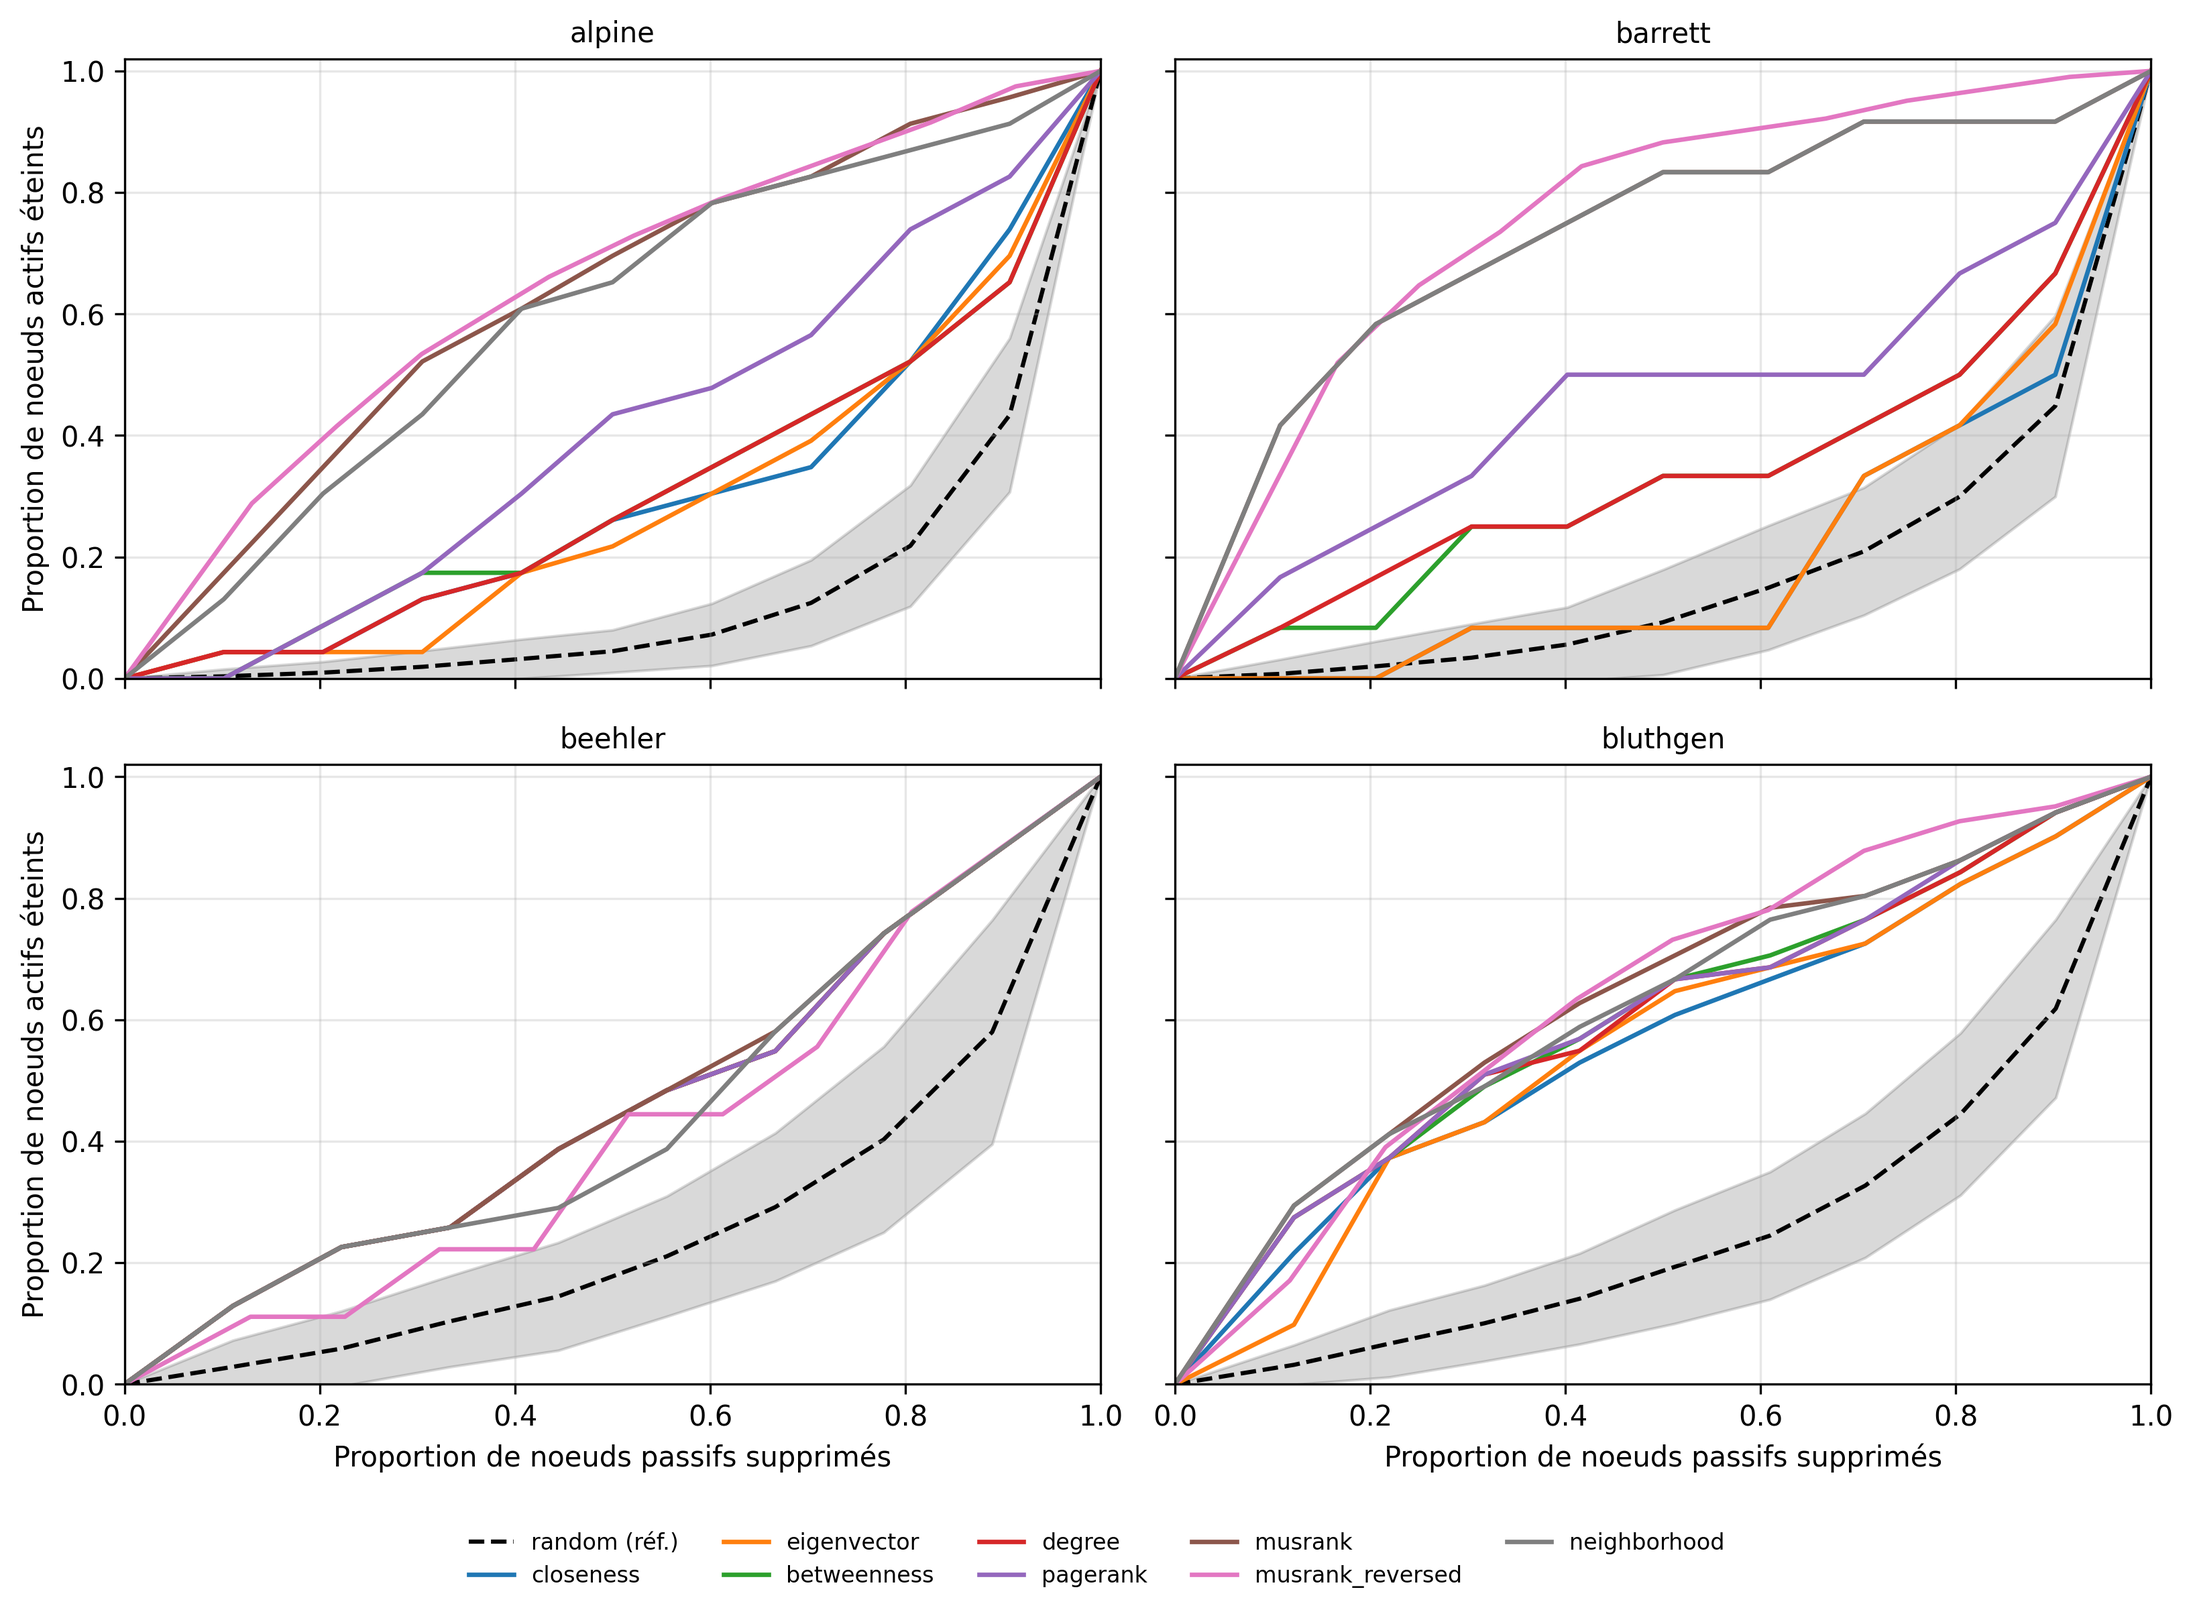
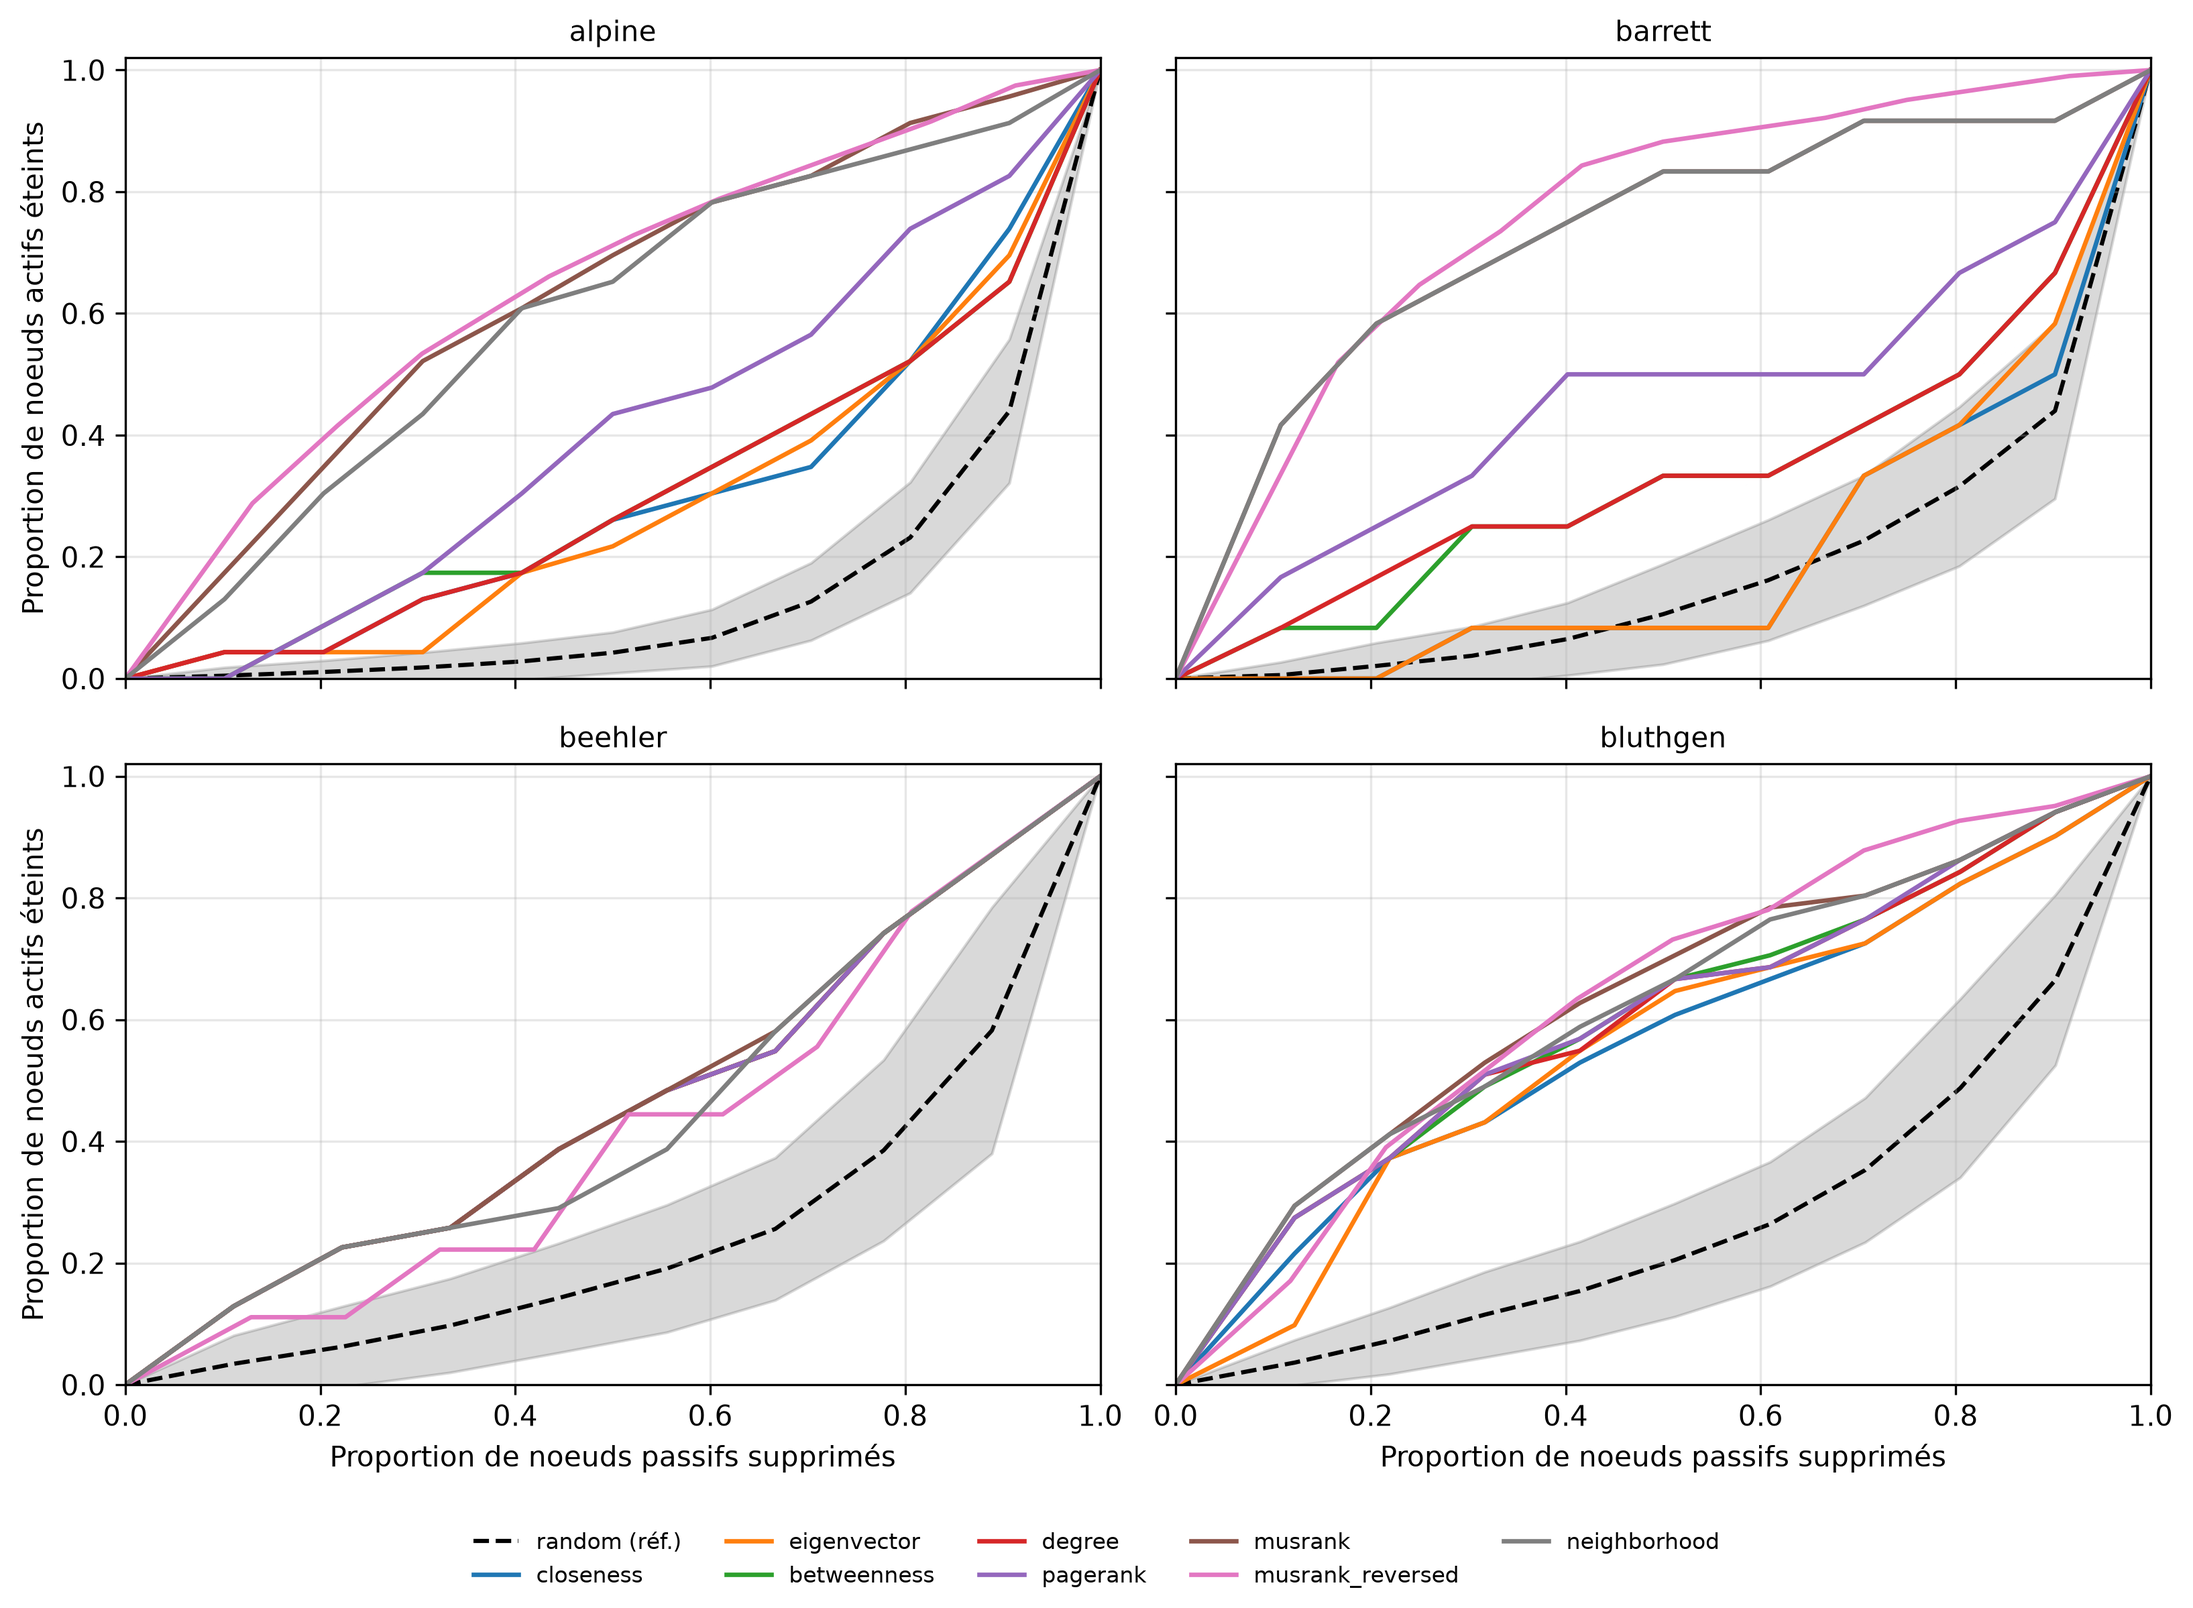
Nettoyage code

diff --git a/strategies.py b/strategies.py
@@ -6,29 +6,6 @@ from musrank_log import *
 # ------------------------------------------------------- 
 # -------------- Stratégies de suppression --------------
 
-# ------ RANDOM ------
-# def delete_random(graphe : Dict[int, List[int]], ns : int) -> Dict[int, List[int]]: 
-#     """Supprime 'ns' noeuds du graphe de manière aléatoire en renvoyant un graphe correspondant (pas de modification)"""
-#     res = copy.deepcopy(graphe)
-#     for _ in range(ns) : 
-#         rdm = random.choice(list(res.keys())) #choix du node target à supprimer du graphe
-#         voisins = res[rdm]
-#         res.pop(rdm)
-#         for node in voisins : #on supprime le noeud target des listes de ses voisins
-#             res[node].remove(rdm)
-#     return res 
-
-# def delete_random(graph : Dict[int, List[int]], ns : int) -> Dict[int, List[int]]:
-#     """Supprime 'ns' noeuds du graphe de manière aléatoire"""
-#     for _ in range(ns) : 
-#         rdm = random.choice(list(graph.keys())) #choix du node target à supprimer du graphe
-#         voisins = graph[rdm]
-#         graph.pop(rdm)
-#         for node in voisins : #on supprime le noeud target des listes de ses voisins
-#             graph[node].remove(rdm)
-#     return graph 
-
-
 # ----- CENTRALITE DE DEGRE -----
 def degree_centrality(graph : Dict[int, List[int]]) -> List[int] :
     """ Renvoie une liste des sommets du graphe triés par ordre décroissant de leur degré. """
@@ -36,21 +13,6 @@ def degree_centrality(graph : Dict[int, List[int]]) -> List[int] :
     triees = sorted(brut, key=lambda x: len(x[1]), reverse=True)
     nodes, neighbors = zip(*triees)
     return nodes
-
-# def delete_degree_nodes(graph : Dict[int, List[int]], n : int) -> Dict[int, List[int]] :
-#     """ Renvoie un graphe corresponsant à graph où les n sommets de degré le plus élevé ont été supprimés. """
-#     nodes = degree_centrality(graph)
-#     copie = copy.deepcopy(graph)
-#     for i in range(n) :
-#         delete_node_from_graph(copie, nodes[i])
-#     return copie
-
-# def delete_degree_nodes_incremental(graph : Dict[int, List[int]], n : int) -> Dict[int, List[int]] :
-#     """ Renvoie graph modifié où les n sommets de degré le plus élevé ont été supprimés. """
-#     nodes = degree_centrality(graph)
-#     for i in range(n) :
-#         delete_node_from_graph(graph, nodes[i])
-#     return graph
 
 
 # ------ CENTRALITE DE PROXIMITE ------
@@ -93,33 +55,6 @@ def order_closeness_centrality(graph : Dict[int, List[int]]) -> List[int]:
     nodes, centralities = zip(*triees)
     return nodes
 
-
-# def delete_closeness_nodes(graph : Dict[int, List[int]], n : int) -> Dict[int, List[int]] :
-#     """ Retourne un nouveau graphe (sous forme de matrice d'adjacence)
-#         à partir de graph dont les n noeuds à la plus grande centralité de proximité ont été supprimés
-#     """
-#     # ATTENTION
-#     # Si cette opération est à réaliser plusieurs fois de suite sur le même graphe 
-#     # en faisant uniquement varier n mais sur le même graphe
-#     # utiliser la fonction 'delete_centrality_nodes_fast', plus rapide et efficace dans CE cas
-
-#     copie = copy.deepcopy(graph)
-#     nodes = order_closeness_centrality(graph) # les noeuds triés par ordre décroissant de centralité
-#     for i in range(n) :
-#         delete_node_from_graph(copie, nodes[i])
-#     return copie 
-
-# def delete_closeness_nodes_incremental(graph : Dict[int, List[int]], n : int) -> Dict[int, List[int]] :
-#     """ Supprime de graph les n noeuds à la plus grande centralité de proximité  """
-#     # ATTENTION
-#     # Si cette opération est à réaliser plusieurs fois de suite sur le même graphe 
-#     # en faisant uniquement varier n mais sur le même graphe
-#     # utiliser la fonction 'delete_centrality_nodes_fast', plus rapide et efficace dans CE cas
-
-#     nodes = order_closeness_centrality(graph) # les noeuds triés par ordre décroissant de centralité
-#     for i in range(n) :
-#         delete_node_from_graph(graph, nodes[i])
-#     return graph 
 
 
 # ------ CENTRALITE D'INTERMEDIARITE -----
@@ -189,36 +124,6 @@ def order_betweenness_centrality(graph : Dict[int, List[int]]) -> List[int] :
     triees = sorted(brut, key=lambda x: x[1], reverse=True)
     nodes, centralities = zip(*triees)
     return nodes
-
-
-# def delete_betweenness_nodes(graph : Dict[int, List[int]], n : int) -> Dict[int, List[int]]:
-#     """ Retourne un nouveau graphe (sous forme de matrice d'adjacence)
-#         à partir de graph dont les n noeuds à la plus grande centralité d'intermédiarité ont été supprimés
-#     """
-#     # ATTENTION
-#     # Si cette opération est à réaliser plusieurs fois de suite sur le même graphe 
-#     # en faisant uniquement varier n mais pas le graphe, alors
-#     # utiliser la fonction 'delete_centrality_nodes_fast', plus rapide et efficace dans CE cas
-
-#     copie = copy.deepcopy(graph)
-#     nodes = order_betweenness_centrality(graph)
-#     for i in range(n) :
-#         delete_node_from_graph(copie, nodes[i])
-#     return copie
-
-# def delete_betweenness_nodes_incremental(graph : Dict[int, List[int]], n : int) -> Dict[int, List[int]]:
-#     """ Retourne un nouveau graphe (sous forme de matrice d'adjacence)
-#         à partir de graph dont les n noeuds à la plus grande centralité d'intermédiarité ont été supprimés
-#     """
-#     # ATTENTION
-#     # Si cette opération est à réaliser plusieurs fois de suite sur le même graphe 
-#     # en faisant uniquement varier n mais pas le graphe, alors
-#     # utiliser la fonction 'delete_centrality_nodes_fast', plus rapide et efficace dans CE cas
-
-#     nodes = order_betweenness_centrality(graph)
-#     for i in range(n) :
-#         delete_node_from_graph(graph, nodes[i])
-#     return graph
 
 
 def logsumexp(values):
@@ -346,22 +251,6 @@ def order_musrank_centrality_reversed(graph : Dict[int, List[int]], actives : Se
     return [node for node, score in triees]
 
 
-
-# def delete_musrank_nodes_incremental( graph: Dict[int, List[int]], n: int) -> Dict[int, List[int]]:
-#     """
-#     Supprime les n noeudsayant la plus grande importance MusRank de graph. """
-
-#     copie = copy.deepcopy(graph)
-
-#     # Get nodes ordered by decreasing MusRank importance
-#     nodes = order_musrank_centrality(graph)
-
-#     for i in range(min(n, len(nodes))):
-#         delete_node_from_graph(copie, nodes[i])
-
-    return copie
-
-
 # ----- CENTRALITE DE PAGERANK -----
 def pagerank_centrality(graph : Dict[int, List[int]], alpha=0.85, max_iter=100, tol=1e-6) -> Dict[int, float]:
     """ Calcule les centralités de PageRank de chaque noeud du graphe """
@@ -391,25 +280,6 @@ def order_pagerank_centrality(graph : Dict[int, List[int]]) -> List[int]:
     brut = list(zip(centralities.keys(), centralities.values()))
     triees = sorted(brut, key=lambda x: x[1], reverse=True)
     return [node for node, score in triees]
-
-# def delete_pagerank_nodes(graph : Dict[int, List[int]], n : int) -> Dict[int, List[int]]:
-#     """ Retourne un nouveau graphe (sous forme de matrice d'adjacence)
-#         à partir de graph dont les n noeuds à la plus grande centralité de PageRank ont été supprimés
-#     """
-#     copie = copy.deepcopy(graph)
-#     nodes = order_pagerank_centrality(graph)
-#     for i in range(min(n, len(nodes))):
-#         delete_node_from_graph(copie, nodes[i])
-#     return copie
-
-# def delete_pagerank_nodes_incremental(graph : Dict[int, List[int]], n : int) -> Dict[int, List[int]]:
-#     """ Supprime les n noeuds à la plus grande centralité de PageRank de graph
-#     """
-#     nodes = order_pagerank_centrality(graph)
-#     for i in range(min(n, len(nodes))):
-#         delete_node_from_graph(graph, nodes[i])
-#     return graph
-
 
 # ----- CENTRALITE DE VECTEUR -----
 def eigenvector_centrality(graph : Dict[int, List[int]], max_iter=100, tol=1e-6) -> Dict[int, float]:
@@ -448,14 +318,6 @@ def order_eigenvector_centrality(graph : Dict[int, List[int]]) -> List[int]:
     brut = list(zip(centralities.keys(), centralities.values()))
     triees = sorted(brut, key=lambda x: x[1], reverse=True)
     return [node for node, score in triees]
-
-# def delete_eigenvector_nodes(graph : Dict[int, List[int]], n : int) -> Dict[int, List[int]]:
-#     """ Supprime les n noeuds à la plus grande centralité de vecteur propre de graph
-#     """
-#     nodes = order_eigenvector_centrality(graph)
-#     for i in range(min(n, len(nodes))):
-#         delete_node_from_graph(graph, nodes[i])
-#     return graph
 
 # ----- NEIGHBORHOOD -----
 def neighborhood_centrality(graph : Dict[int, List[int]]) -> Dict[int, Tuple[int, ...]] :

diff --git a/analyse_resultats.py b/analyse_resultats.py
@@ -66,18 +66,6 @@ def delete_nodes_result(graph : Dict[int, List[int]], actives : Set[int], passiv
             ) / 2
             aire_totale += largeur * hauteur_moyenne
 
-        # plt.figure(figsize=(8, 5))
-        # plt.plot(proportion_passives_supp, proportion_actives_eteintes, marker='.', color='blue')
-        # plt.xlabel("Proportion de noeuds passifs supprimés")
-        # plt.ylabel("Proportion de noeuds actifs éteints")
-        # plt.title(f"Extinction des noeuds actifs selon la stratégie {strategie}")
-        # plt.grid(True)
-        # filename = "results/"+graph_name+"_"+strategie
-        # plt.savefig(filename, dpi=300, bbox_inches='tight')
-        # if affichage:
-        #     plt.show()
-        # plt.close()
-
         return aire_totale, temps_classement, proportion_passives_supp, proportion_actives_eteintes
 
     index = 0 # l'index représentant l'avancement des noeuds consommés dans la suppression par incréments 
@@ -96,19 +84,5 @@ def delete_nodes_result(graph : Dict[int, List[int]], actives : Set[int], passiv
         hauteur_moyenne = (proportion_passives_restants[i] + proportion_passives_restants[i+1]) / 2
         aire_totale += largeur * hauteur_moyenne
 
-
-    # print(aire_totale)
-
-    # plt.figure(figsize=(8, 5))
-    # plt.plot(proportion_actives_supp, proportion_passives_restants, marker='.', color='blue')
-    # plt.xlabel("Proportion de noeuds actifs supprimés")
-    # plt.ylabel("Proportion d'espèces passives éteintes")
-    # plt.title(f"Extinction des espèces passives selon la stratégie {strategie}")
-    # plt.grid(True)
-    # filename = "results/"+graph_name+"_"+strategie
-    # plt.savefig(filename, dpi=300, bbox_inches='tight')
-    # if affichage : 
-    #     plt.show()
-    # plt.close()
 
     return aire_totale, temps_classement, proportion_actives_supp, proportion_passives_restants

diff --git a/tools.py b/tools.py
@@ -154,43 +154,6 @@ def delete_passive_nodes_fast_incremental(graph : Dict[int, List[int]], n : int,
     return i
 
 
-# -------------------------------------------------------
-
-#utile pour differencier les noeuds "passifs" et "actifs" dans les graphes bipartis pour la stratégie MusRank
-# def get_partitions(graph: Dict[int, List[int]]) -> Tuple[Set[int], Set[int]]:
-#     A = set()
-#     B = set()
-
-#     color = {}
-
-#     for node in graph:
-#         if node in color:
-#             continue
-
-#         # Start a new connected component
-#         color[node] = 0
-#         queue = deque([node])
-
-#         while queue:
-#             u = queue.popleft()
-
-#             for v in graph[u]:
-#                 if v not in color:
-#                     color[v] = 1 - color[u]
-#                     queue.append(v)
-
-#                 elif color[v] == color[u]:
-#                     raise ValueError("Graph is not bipartite!")
-
-#     for node, c in color.items():
-#         if c == 0:
-#             A.add(node)
-#         else:
-#             B.add(node)
-
-#     return A, B
-
-
 def clear_graph(graph : Dict[int, List[int]]) -> None :
     """ Supprime du graphe les noeuds qui n'ont aucun voisin (extinction)"""
     nodes = [node for node in graph]

diff --git a/adaptive_musrank.py b/adaptive_musrank.py
@@ -103,32 +103,4 @@ def adaptive_musrank_result(graph: Dict[int, List[int]],actives: Set[int], passi
 
         aire_totale += largeur * hauteur_moyenne
 
-    # Affichage et sauvegarde du graphique
-    # plt.figure(figsize=(8, 5))
-
-    # plt.plot(
-    #     proportion_actives_supp,
-    #     proportion_passives_eteintes,
-    #     marker='.',
-    #     color='blue'
-    # )
-
-    # plt.xlabel("Proportion de noeuds actifs supprimés")
-    # plt.ylabel("Proportion d'espèces passives éteintes")
-
-    # plt.title(
-    #     "Extinction des espèces passives selon MusRank adaptatif"
-    # )
-
-    # plt.grid(True)
-
-    # filename = "results/" + graph_name + "_musrank_adaptive"
-
-    # plt.savefig(filename, dpi=300, bbox_inches='tight')
-
-    # if affichage:
-    #     plt.show()
-
-    # plt.close()
-
     return aire_totale, temps_classement

diff --git a/summary_plot.py b/summary_plot.py
@@ -123,8 +123,3 @@ def plot_heatmap(results, path, baseline="random", larger_is_better=True,
     _ensure_dir(path)
     fig.savefig(path, dpi=300, bbox_inches="tight")
     plt.close(fig)
-
-
-
-if __name__ == "__main__":
-    import sys
